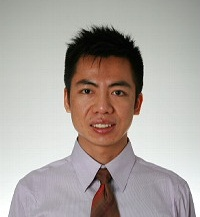
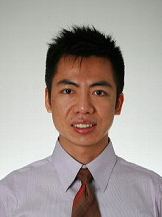
resize photos for team members

diff --git a/web/templates/index.html b/web/templates/index.html
@@ -434,7 +434,7 @@
             {% for person in row %}
             <td valign="top">
               <div style="float:left; margin-right: 1rem">
-                <img src="{{ url_for('static',filename='./images/{}'.format(person['img'])) }}" width="128">
+                <img src="{{ url_for('static',filename='./images/{}'.format(person['img'])) }}" width="128" height="171">
               </div>
               <p>
                 <span class="personName">{{ person['name'] }}</span>
@@ -461,7 +461,7 @@
             {% for person in row %}
             <td valign="top" >
               <div style="float:left; margin-right: 1rem">
-                <img src="{{ url_for('static',filename='./images/{}'.format(person['img'])) }}" width="128">
+                <img src="{{ url_for('static',filename='./images/{}'.format(person['img'])) }}" width="128" height="171">
               </div>
               <p>
                 <span class="personName">{{ person['name'] }}</span>
